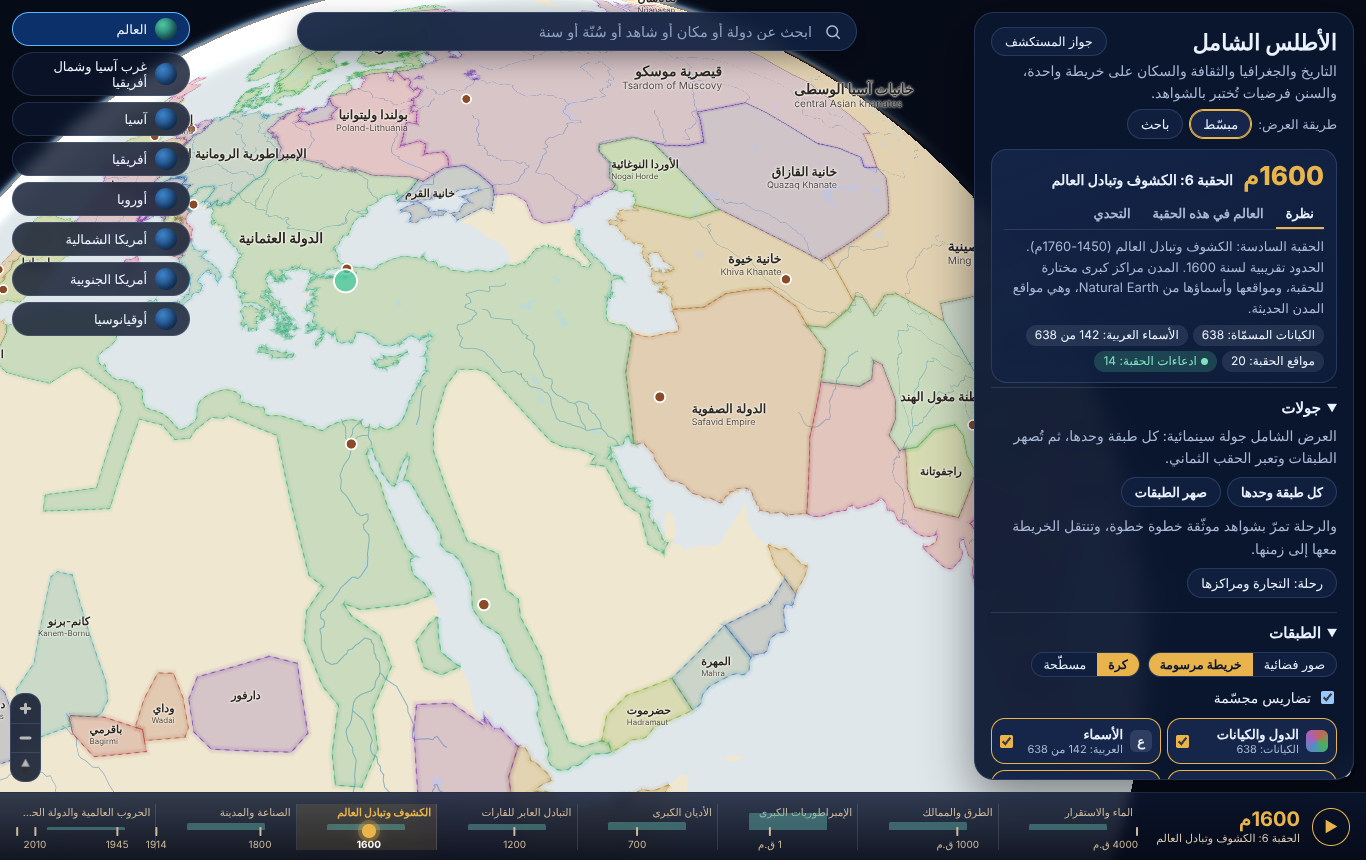
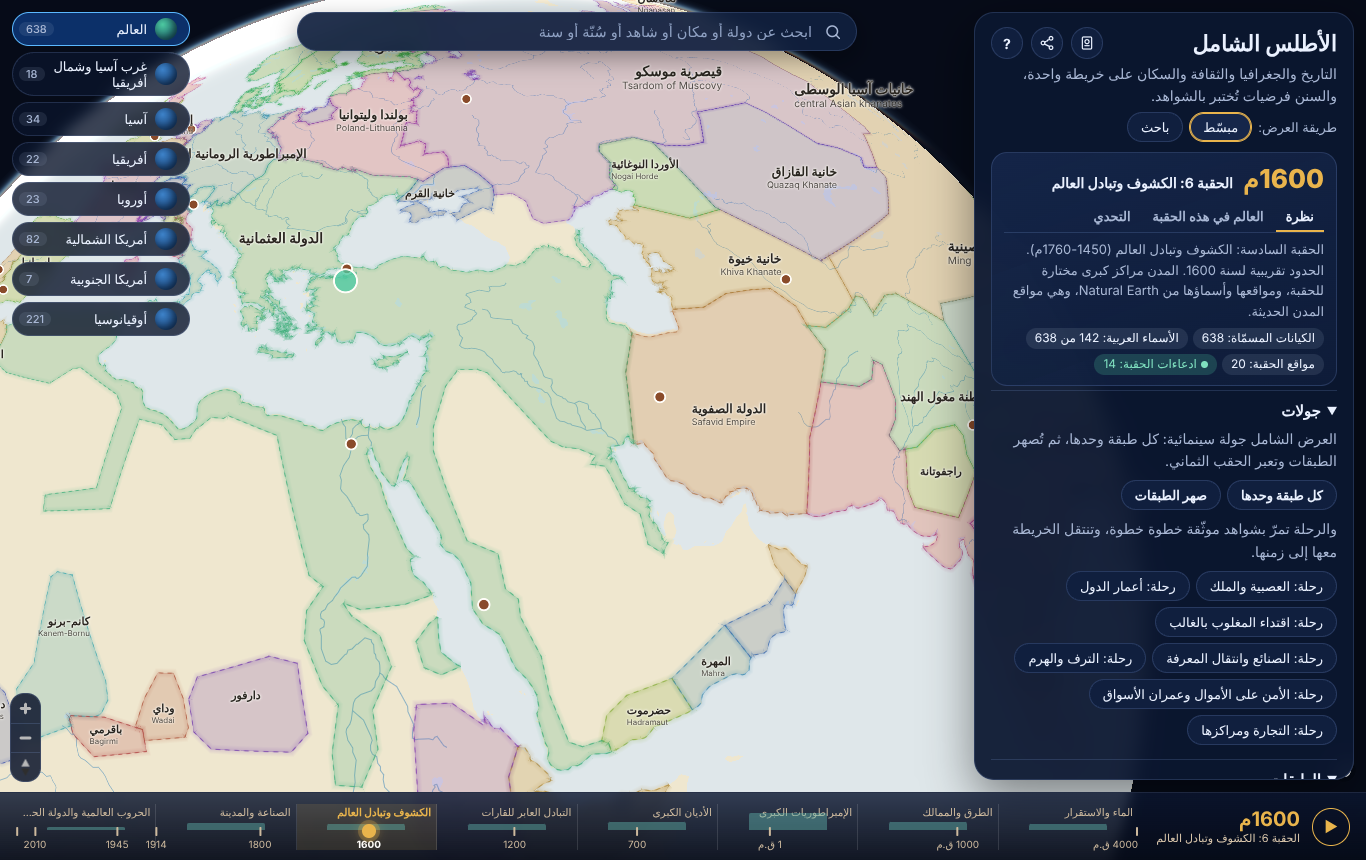
رأس اللوحة: أدوات بأيقونات، والعنوان على سطر واحد، واللقطات المرجعية محدَّثة
أزرار المشاركة والاختصارات (المرحلة السابعة) زاحمت العنوان وزرّ الجواز فانكسرا على سطرين؛
صار الجواز زرّاً بأيقونة كالمشاركة، ويظهر على الجوال أيضاً. واللقطات المرجعية محدَّثة لتغييرات
مقصودة في المراحل السادسة إلى التاسعة (عدّادات القارات، والرحلات السبع، ورأس اللوحة)، وثباتها 0.00% في الست.

Claude-Session: https://claude.ai/code/session_01EKgcrpAVTTmkELDxDHoHAK

Changed region(s): [[0.7072, 0.0302, 0.9839, 0.907]]

diff --git a/web/index.html b/web/index.html
@@ -281,10 +281,11 @@
     @keyframes fade-in { from { opacity: 0; transform: translateY(-3px); } }
     #now { background: linear-gradient(160deg, rgba(21, 38, 74, 0.9), rgba(16, 31, 62, 0.7)); border: 1px solid var(--line); border-radius: 16px; }
     #now-year { color: var(--accent); font-family: var(--font-d); }
-    .row button, .mode button, #panel-toggle, #passport-btn, .jb-head button, .jb-nav button { border: 1px solid var(--line); background: var(--card); color: var(--ink); border-radius: 999px; padding: 6px 13px; transition: border-color 0.2s, background 0.2s, color 0.2s; }
-    .row button:hover, .mode button:hover, #panel-toggle:hover, #passport-btn:hover, .lc:hover, button.chip:hover, .jb-nav button:hover { border-color: var(--sky); }
+    .row button, .mode button, #panel-toggle, .jb-head button, .jb-nav button { border: 1px solid var(--line); background: var(--card); color: var(--ink); border-radius: 999px; padding: 6px 13px; transition: border-color 0.2s, background 0.2s, color 0.2s; }
+    .row button:hover, .mode button:hover, #panel-toggle:hover, .lc:hover, button.chip:hover, .jb-nav button:hover { border-color: var(--sky); }
     .row button[aria-pressed="true"], .mode button[aria-pressed="true"] { border-color: var(--accent); background: var(--card2); color: var(--ink); box-shadow: inset 0 0 0 1px var(--accent); }
-    #passport-btn { font-size: 12.5px; margin-inline-start: auto; }
+    #passport-btn { margin-inline-start: auto; }
+    #panel h1 { white-space: nowrap; }
     select { background: var(--card); border: 1px solid var(--line); border-radius: 10px; color: var(--ink); }
     .seg { border-color: var(--line); background: var(--card); }
     .seg input:checked + span { background: var(--accent); color: #0B1630; font-weight: 600; }
@@ -418,7 +419,7 @@
       #rail { top: 122px; left: 8px; right: 8px; width: auto; flex-direction: row; overflow-x: auto; scrollbar-width: none; }
       #rail button { flex: none; }
       #panel:not(.collapsed) ~ #search-box, #panel:not(.collapsed) ~ #rail, body.card-open #rail { display: none; }
-      #passport-btn, #keys-btn { display: none; }
+      #keys-btn { display: none; }
       #q-results { max-height: 50vh; }
       /* مقبض شريط الزمن أكبر للمس، ومنطقة الضغط حوله أوسع */
       #tb-thumb { width: 20px; height: 20px; margin-inline-start: -10px; bottom: 4px; }
@@ -426,7 +427,6 @@
       .card-grip { width: 56px; height: 7px; }
       /* السحب من المقبض ورأس البطاقة للورقة نفسها، والتمرير لبقية محتواها */
       .card-grip, #card .ch { touch-action: none; }
-      #share-btn { margin-inline-start: auto; }
       .tiles { grid-template-columns: repeat(2, 1fr); }
       @keyframes card-in { from { opacity: 0; transform: translateY(24px); } }
     }
@@ -464,7 +464,7 @@
     <header class="ph">
       <div class="ph-top">
         <h1>الأطلس الشامل</h1>
-        <button type="button" id="passport-btn" aria-haspopup="dialog">جواز المستكشف</button>
+        <button type="button" id="passport-btn" class="icon-btn" aria-haspopup="dialog" aria-label="جواز المستكشف" title="جواز المستكشف"><svg viewBox="0 0 24 24" fill="none" stroke="currentColor" stroke-width="1.8" stroke-linecap="round" stroke-linejoin="round" aria-hidden="true"><rect x="5" y="3" width="14" height="18" rx="2"/><circle cx="12" cy="10" r="3"/><path d="M9 16h6"/></svg></button>
         <button type="button" id="share-btn" class="icon-btn" aria-label="شارك هذا المنظر" title="شارك هذا المنظر"><svg viewBox="0 0 24 24" fill="none" stroke="currentColor" stroke-width="1.9" stroke-linecap="round" stroke-linejoin="round" aria-hidden="true"><circle cx="18" cy="5" r="2.6"/><circle cx="6" cy="12" r="2.6"/><circle cx="18" cy="19" r="2.6"/><path d="M8.3 10.8l7.4-4.3M8.3 13.2l7.4 4.3"/></svg></button>
         <button type="button" id="keys-btn" class="icon-btn" aria-haspopup="dialog" aria-label="اختصارات لوحة المفاتيح" title="اختصارات لوحة المفاتيح">?</button>
         <button type="button" id="panel-toggle" aria-expanded="true" aria-controls="panel-body">القائمة</button>
